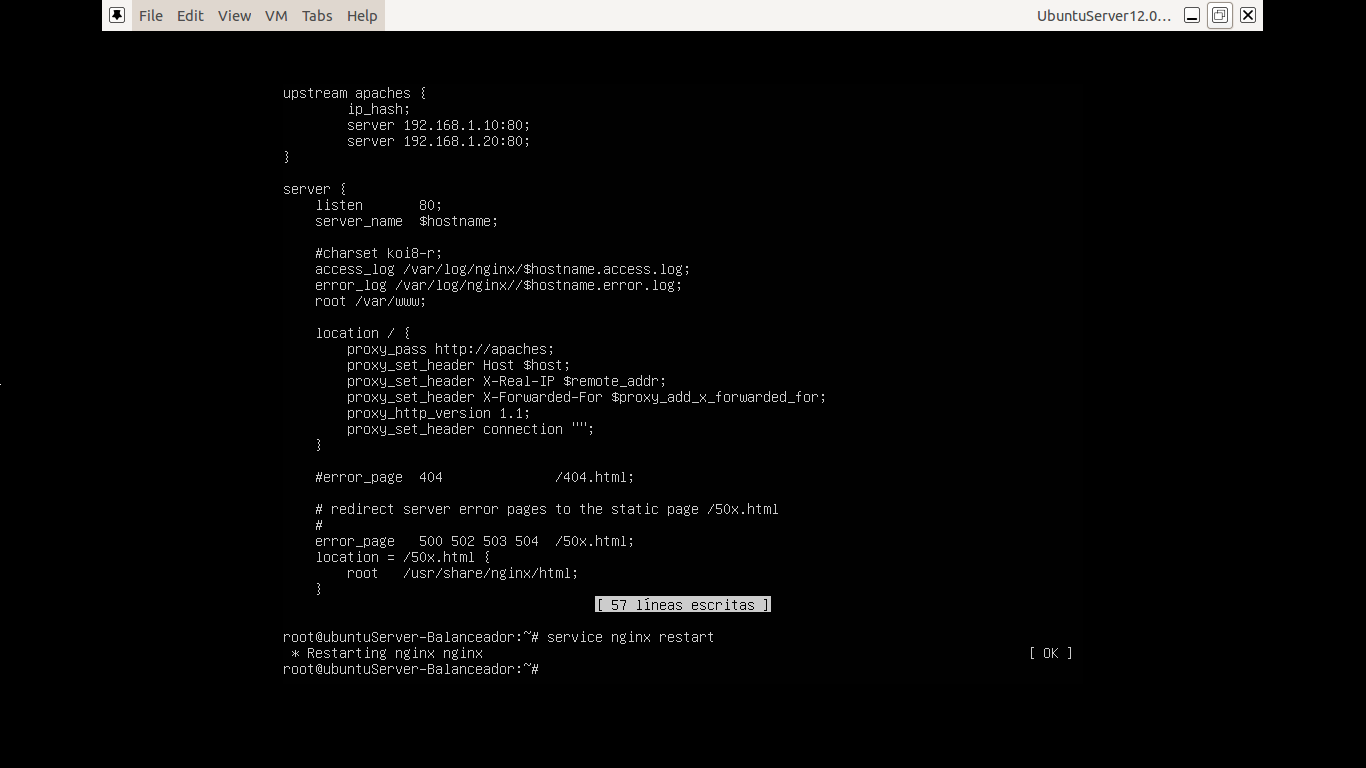
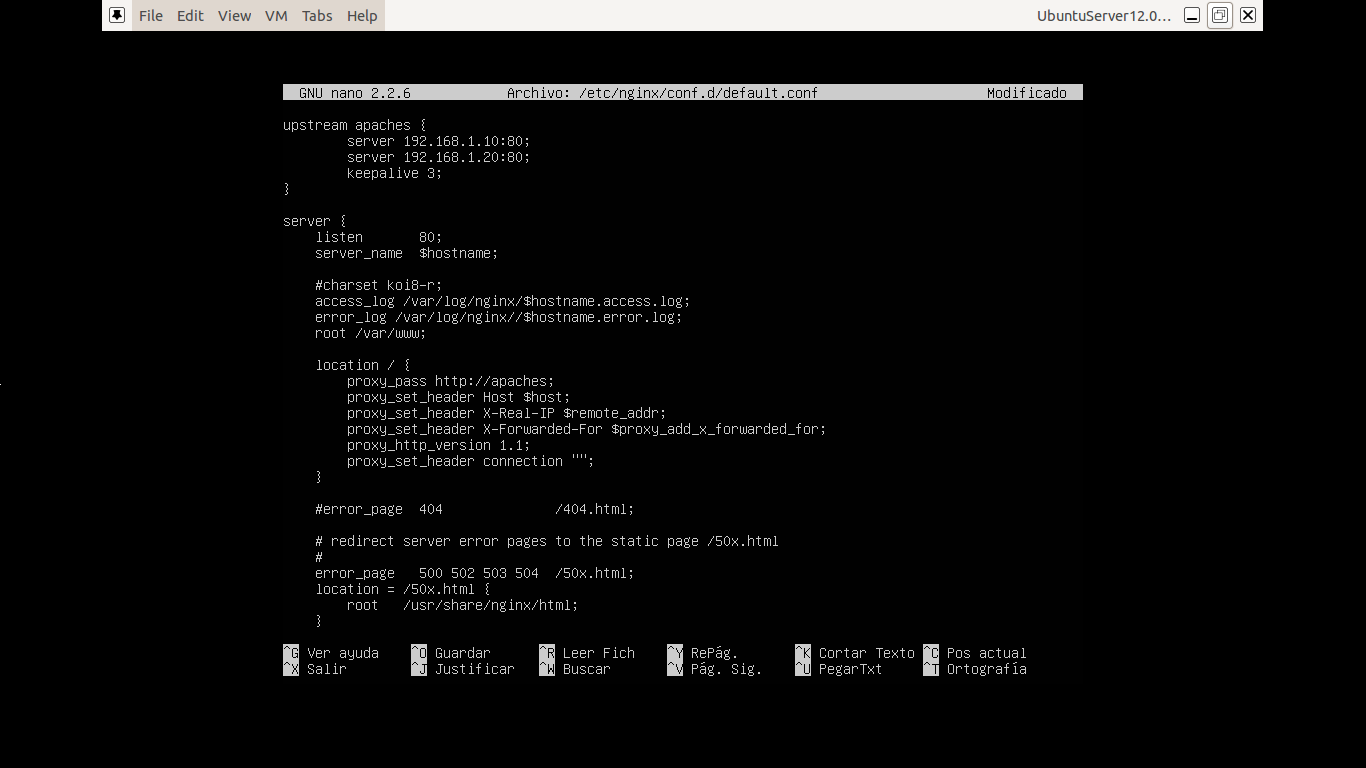
Práctica3

diff --git a/Prácticas/Práctica3/README.md b/Prácticas/Práctica3/README.md
@@ -82,29 +82,37 @@
 	
 	![Imagen 1.6](Capturas/4__.png "Práctica 3.2")
 
-	**Probando nginx**
-	
-	`$> curl http://192.168.1.5`
-
-	![Imagen 1.7](Capturas/4.1__.png "Práctica 3.2")
-
 	**Configurando cargas personalizadas**	
 
 	*Basta con añadir la carga deseada* **weight** *a cada servidor.*
 	
-	![Imagen 1.8](Capturas/4.2__.png "Práctica 3.2")
+	![Imagen 1.8](Capturas/4.1__.png "Práctica 3.2")
 
 	**Configurando el trafico para que guarde fidelidad**	
 
 	*Basta con añadir la directiva* **ip_hash** *al definir el upstream.*
 	
-	![Imagen 1.9](Capturas/4.3__.png "Práctica 3.2")
+	![Imagen 1.9](Capturas/4.2__.png "Práctica 3.2")
 		
 	**Configurando nginx para que use** *keepalive*	
 
 	*Basta con añadir la directiva* **keepalive** *y su tiempo de vida al definir el upstream.*
 	
-	![Imagen 2](Capturas/4.4__.png "Práctica 3.2")
+	![Imagen 2](Capturas/4.3__.png "Práctica 3.2")
+	
+	**Probando nginx**
+	
+	`$> curl http://192.168.1.5`
+
+	![Imagen 1.7](Capturas/4.4__.png "Práctica 3.2")
+
+	**round-robin** 
+
+	![Imagen 2.4](Capturas/4.5__.png "Práctica 3.2")
+
+	**Usando ponderación**
+
+	![Imagen 2.5](Capturas/4.6__.png "Práctica 3.2")
 
 
 
@@ -137,8 +145,17 @@
 	`$> curl http://192.168.1.5`
 
 	`$> curl http://192.168.1.5`
+	
+	**round-robin** 
 
 	![Imagen 2.4](Capturas/5.3__.png "Práctica 3.3")
+
+	**Usando ponderación**
+
+	![Imagen 2.5](Capturas/5.4__.png "Práctica 3.3")
+
+3. ###comprobando el funcionamiento de los algoritmos de balanceo.
+
 
 
 **Autores:** *Alejandro Rodríguez López y Antonio Cordonie Campos*	
